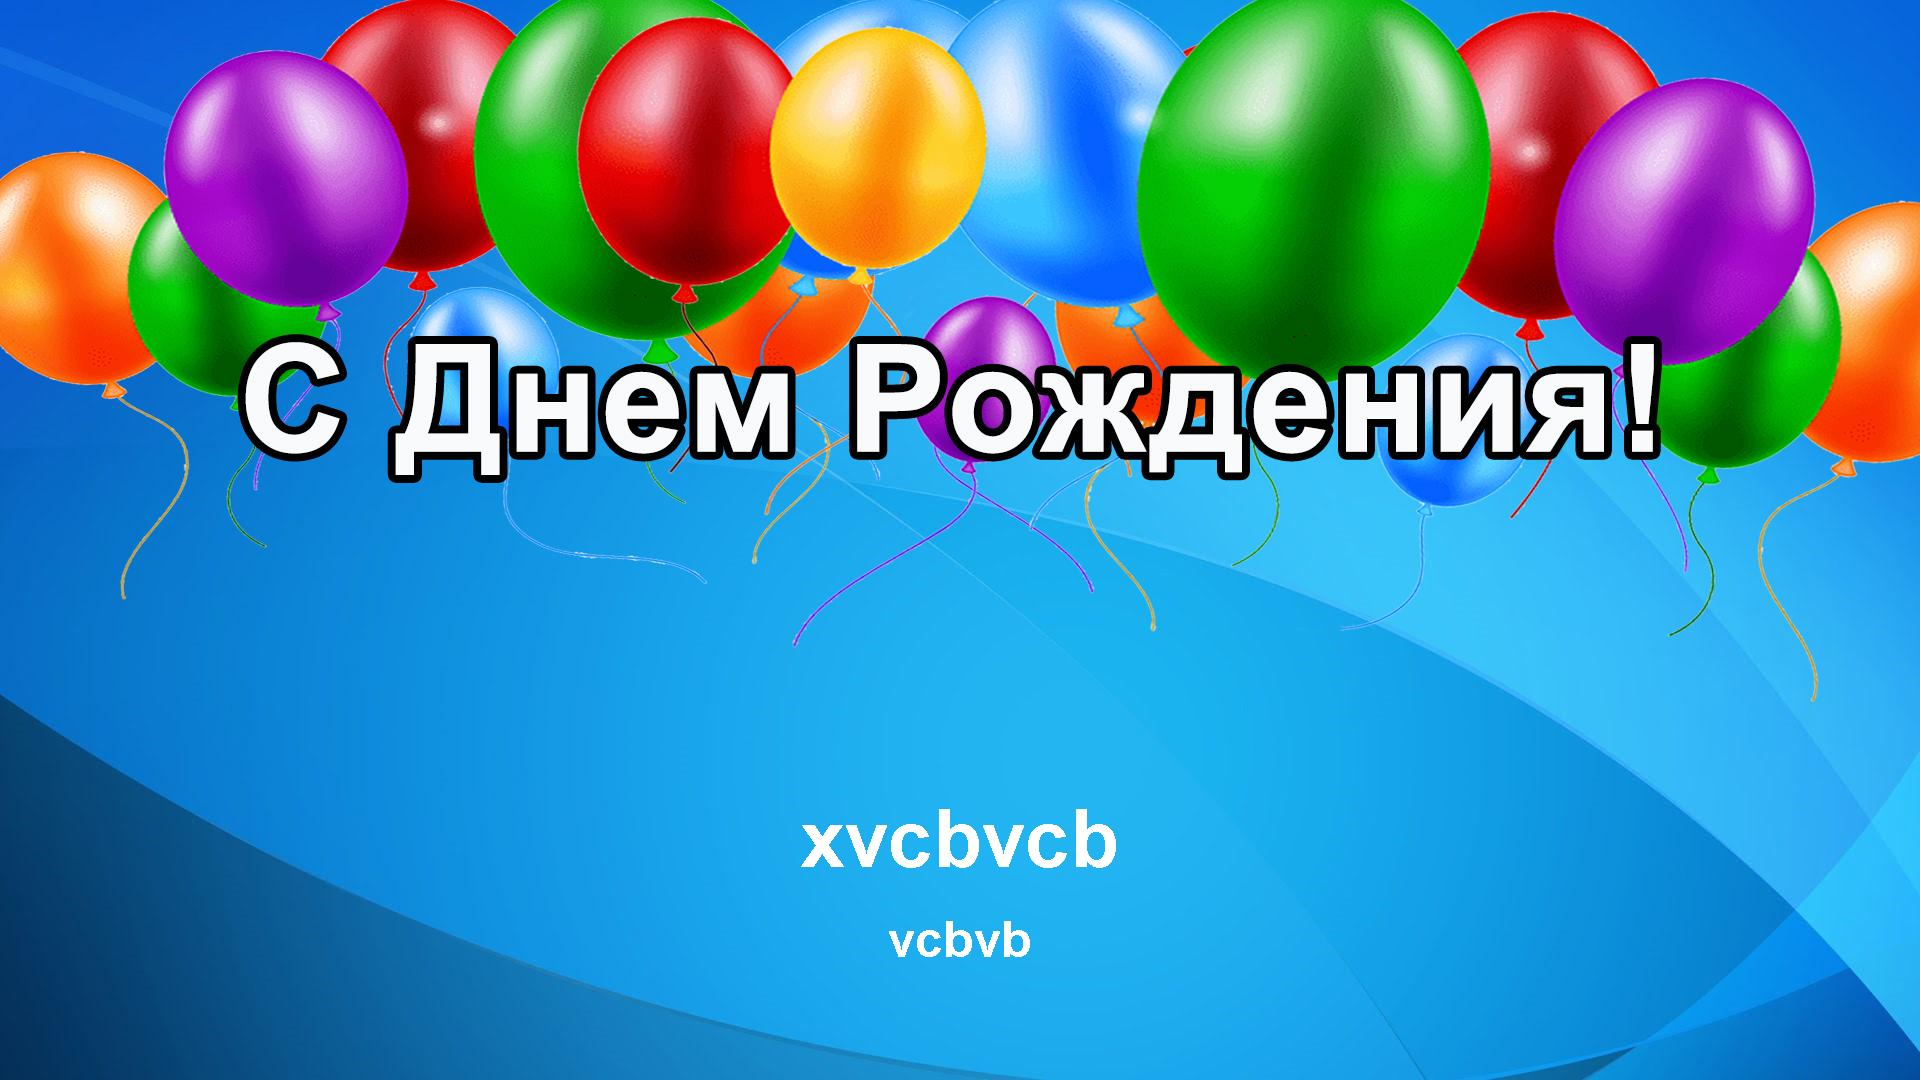
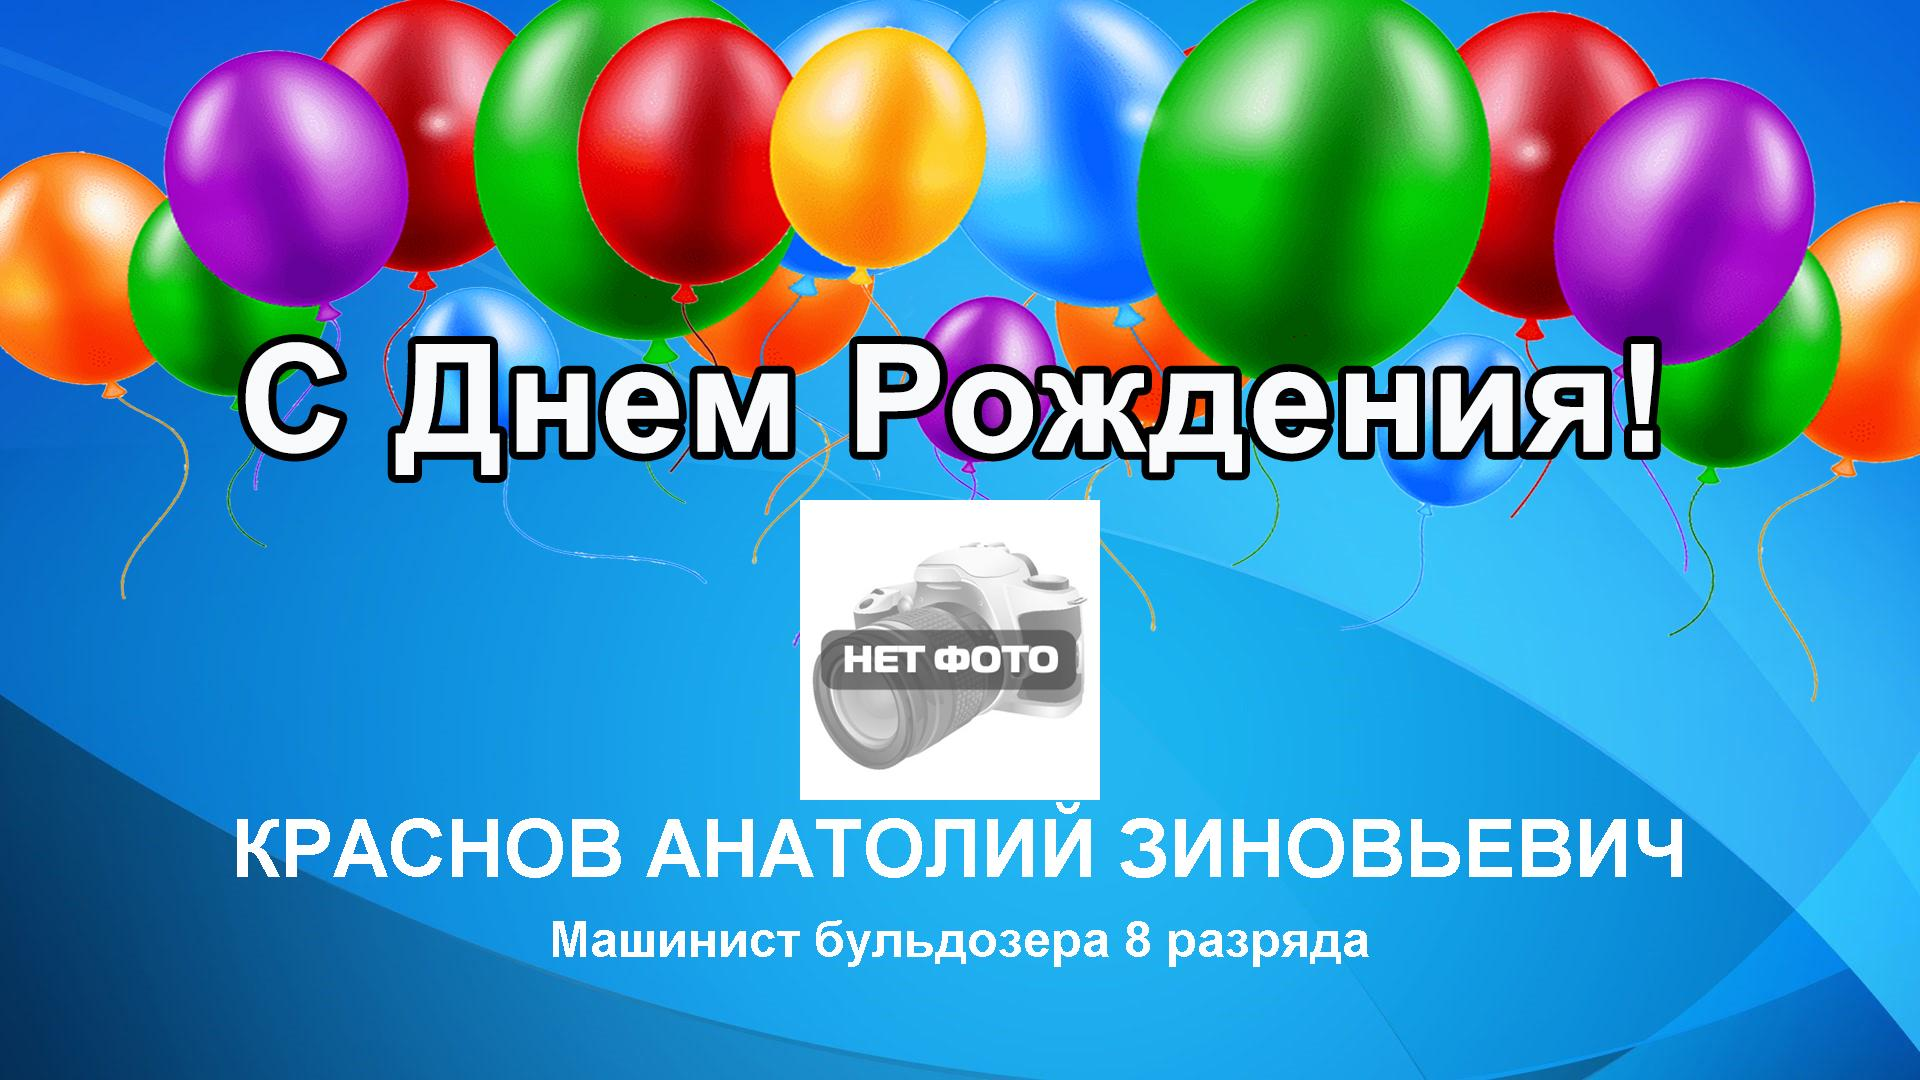
change

Changed region(s): [[0.125, 0.4583, 0.875, 0.825], [0.2812, 0.8556, 0.7188, 0.8861]]

diff --git a/src/main/java/com/example/birthday/service/DataUtil.java b/src/main/java/com/example/birthday/service/DataUtil.java
@@ -55,7 +55,7 @@ public class DataUtil {
             }
 
             int positionX = (image.getWidth() - metrics.stringWidth(p.getFio())) / 2;
-            int positionY = (image.getHeight() - metrics.getHeight()) / 2 + metrics.getAscent() + 300;
+            int positionY = (image.getHeight() - metrics.getHeight()) / 2 + metrics.getAscent() + 310;
             g.drawString(attributedText.getIterator(), positionX, positionY);
 
             FontMetrics metricsPosition = g.getFontMetrics(fontPosition);
@@ -132,7 +132,7 @@ public class DataUtil {
 
     public static String getCurrentDayAndMonth (){
         Date currentdate = new Date();
-        SimpleDateFormat formatForDay = new SimpleDateFormat("MM-dd");
+        SimpleDateFormat formatForDay = new SimpleDateFormat("dd.MM");
         String d=formatForDay.format(currentdate);
         return d;
 

diff --git a/src/main/java/com/example/birthday/service/BirthdayService.java b/src/main/java/com/example/birthday/service/BirthdayService.java
@@ -39,7 +39,7 @@ public class BirthdayService {
 
         //3. загрузка фона и данных
         File fileFon = loadPicture();
-        List<Person> personList = processingDataFromBD.findPersonByBirthdayEndingWith(getCurrentDayAndMonth());
+        List<Person> personList = processingDataFromBD.findPersonByBirthdayStartingWith(getCurrentDayAndMonth());
 
 
         //4. накладываем, если имеются данные именинника на картинку-фон

diff --git a/src/main/java/com/example/birthday/repository/ProcessingDataFromBD.java b/src/main/java/com/example/birthday/repository/ProcessingDataFromBD.java
@@ -13,7 +13,7 @@ import java.util.List;
 @Repository
 public interface ProcessingDataFromBD extends JpaRepository<Person, Long> {
 
-   List<Person> findPersonByBirthdayEndingWith(String date);
+   List<Person> findPersonByBirthdayStartingWith(String date);
 
 
 }
